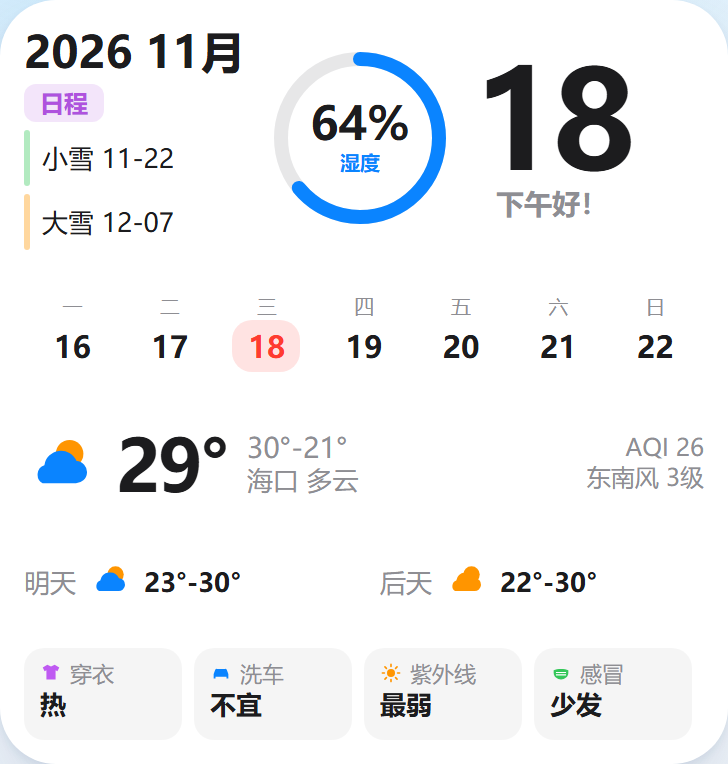
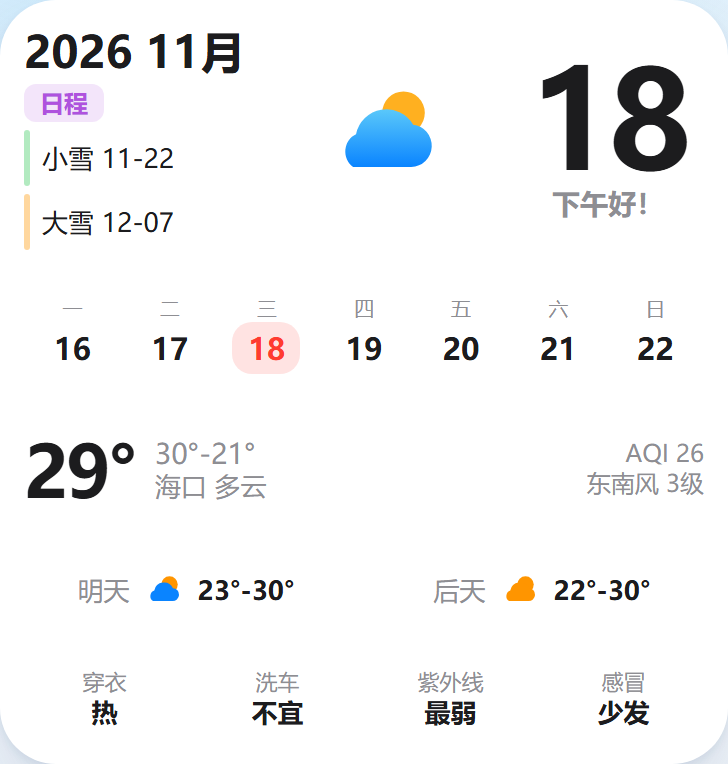
Use large weather symbol and center forecast rows

diff --git a/preview/预览.html b/preview/预览.html
@@ -114,6 +114,13 @@
   .darkw .l-bar.orange { background: rgba(255,159,10,.38); }
   .l-schedule span { font-size: 13px; color: var(--text); white-space: nowrap; }
   .l-gauge { width: 88px; height: 88px; flex: none; display: flex; align-items: center; justify-content: center; }
+  .l-hero { flex: 1 1 auto; display: flex; align-items: center; justify-content: center; }
+  .l-hero .disc {
+    width: 88px; height: 88px; border-radius: 50%; display: flex; align-items: center; justify-content: center;
+    background: transparent;
+  }
+  .darkw .l-hero .disc { background: transparent; }
+  .l-hero svg { width: 62px; height: 62px; }
   .l-right { width: 96px; flex: none; display: flex; flex-direction: column; align-items: center; }
   .l-day { font-size: 68px; font-weight: 700; line-height: .92; letter-spacing: -.045em; }
   .l-greet { font-size: 14px; font-weight: 600; color: var(--sub); white-space: nowrap; margin-top: 2px; }
@@ -138,20 +145,17 @@
   .l-rightinfo span { font-size: 12px; color: var(--sub); line-height: 1.15; white-space: nowrap; }
 
   .l-next { display: flex; gap: 16px; align-items: center; height: 26px; flex: none; }
-  .l-nextcard { width: 162px; display: flex; align-items: center; gap: 6px; }
+  .l-nextcard { width: 162px; display: flex; align-items: center; justify-content: center; gap: 6px; }
   .l-nextcard .lab { font-size: 13px; color: var(--sub); white-space: nowrap; }
   .l-nextcard .val { font-size: 13px; font-weight: 600; color: var(--text); white-space: nowrap; }
   .l-nextcard svg { width: 22px; height: 22px; flex: none; }
 
   .l-spacer { flex: 1 1 auto; min-height: 0; }
-  .l-life { display: flex; gap: 6px; flex: none; height: 46px; }
+  .l-life { display: flex; gap: 6px; flex: none; height: 40px; }
   .l-lifeitem {
-    width: 79px; padding: 7px 8px; border-radius: 10px; background: var(--chip);
-    display: flex; flex-direction: column; gap: 2px;
+    flex: 1; display: flex; flex-direction: column; align-items: center; justify-content: center; gap: 2px;
   }
-  .l-lifeitem .row { display: flex; align-items: center; gap: 4px; }
-  .l-lifeitem .row svg { width: 11px; height: 11px; flex: none; }
-  .l-lifeitem .lab { font-size: 11px; color: var(--sub); line-height: 1.1; }
+  .l-lifeitem .lab { font-size: 11px; color: var(--sub); line-height: 1.1; text-align: center; }
   .l-lifeitem .val { font-size: 13px; font-weight: 600; color: var(--text); line-height: 1.15; white-space: nowrap; }
 
   .note { margin: 18px 4px 0; color: #94a3b8; font-size: 11px; }
@@ -177,7 +181,11 @@
           <div class="l-schedule"><div class="l-bar green"></div><span>小雪 11-22</span></div>
           <div class="l-schedule"><div class="l-bar orange"></div><span>大雪 12-07</span></div>
         </div>
-        <div class="l-gauge" id="gauge-dark"></div>
+        <div class="l-hero"><div class="disc"><svg viewBox="0 0 64 64" aria-hidden="true">
+          <defs><linearGradient id="cg1" x1="0" y1="0" x2="0" y2="1"><stop offset="0" stop-color="#5AC8FA"/><stop offset="1" stop-color="#0A84FF"/></linearGradient></defs>
+          <circle cx="40" cy="19" r="11" fill="#FFB020"/>
+          <path d="M14 47h30a11 11 0 0 0 1-21.9A16 16 0 0 0 15.5 30 10 10 0 0 0 14 47z" fill="url(#cg1)"/>
+        </svg></div></div>
         <div class="l-right">
           <div class="l-day">18</div>
           <div class="l-greet">下午好！</div>
@@ -191,10 +199,6 @@
       <div class="l-spacer"></div>
 
       <div class="l-weather">
-        <svg class="l-icon" viewBox="0 0 24 24" aria-hidden="true">
-          <circle cx="15.2" cy="8.6" r="4.6" fill="#FF9500"/>
-          <path d="M6.2 18.4h10.9a3.7 3.7 0 0 0 .4-7.4 5.6 5.6 0 0 0-10.7 1.4 3.3 3.3 0 0 0-.6 6z" fill="#0A84FF"/>
-        </svg>
         <div class="l-temp">29°</div>
         <div class="l-cond">
           <div class="l-hl">30°-21°</div>
@@ -224,10 +228,10 @@
       <div class="l-spacer"></div>
 
       <div class="l-life">
-        <div class="l-lifeitem"><div class="row"><svg viewBox="0 0 24 24"><path d="M8 3l4 2 4-2 5 3-2 4-2-1v10H7V9L5 10 3 6z" fill="#BF5AF2"/></svg><span class="lab">穿衣</span></div><span class="val">热</span></div>
-        <div class="l-lifeitem"><div class="row"><svg viewBox="0 0 24 24"><path d="M4 13l1.6-4.2A2 2 0 0 1 7.5 7.5h9a2 2 0 0 1 1.9 1.3L20 13v5h-2v-2H6v2H4z" fill="#0A84FF"/></svg><span class="lab">洗车</span></div><span class="val">不宜</span></div>
-        <div class="l-lifeitem"><div class="row"><svg viewBox="0 0 24 24"><circle cx="12" cy="12" r="4.4" fill="#FF9500"/><g stroke="#FF9500" stroke-width="1.8" stroke-linecap="round"><path d="M12 2.6v2.2M12 19.2v2.2M2.6 12h2.2M19.2 12h2.2M5.4 5.4l1.6 1.6M17 17l1.6 1.6M18.6 5.4L17 7M7 17l-1.6 1.6"/></g></svg><span class="lab">紫外线</span></div><span class="val">最弱</span></div>
-        <div class="l-lifeitem"><div class="row"><svg viewBox="0 0 24 24"><path d="M4 9c4-2 12-2 16 0v3c0 4-4 7-8 7s-8-3-8-7z" fill="#34C759"/><path d="M6.5 11.5h11M6.5 14h11" stroke="#fff" stroke-width="1.2"/></svg><span class="lab">感冒</span></div><span class="val">少发</span></div>
+        <div class="l-lifeitem"><span class="lab">穿衣</span><span class="val">热</span></div>
+        <div class="l-lifeitem"><span class="lab">洗车</span><span class="val">不宜</span></div>
+        <div class="l-lifeitem"><span class="lab">紫外线</span><span class="val">最弱</span></div>
+        <div class="l-lifeitem"><span class="lab">感冒</span><span class="val">少发</span></div>
       </div>
     </div>
     <p class="note">HTML 近似渲染，用于确认信息层级和密度；真机由 SwiftUI / SF Symbols 绘制，细节会略有差异。</p>
@@ -243,7 +247,11 @@
           <div class="l-schedule"><div class="l-bar green"></div><span>小雪 11-22</span></div>
           <div class="l-schedule"><div class="l-bar orange"></div><span>大雪 12-07</span></div>
         </div>
-        <div class="l-gauge" id="gauge-light"></div>
+        <div class="l-hero"><div class="disc"><svg viewBox="0 0 64 64" aria-hidden="true">
+          <defs><linearGradient id="cg2" x1="0" y1="0" x2="0" y2="1"><stop offset="0" stop-color="#5AC8FA"/><stop offset="1" stop-color="#0A84FF"/></linearGradient></defs>
+          <circle cx="40" cy="19" r="11" fill="#FFB020"/>
+          <path d="M14 47h30a11 11 0 0 0 1-21.9A16 16 0 0 0 15.5 30 10 10 0 0 0 14 47z" fill="url(#cg2)"/>
+        </svg></div></div>
         <div class="l-right">
           <div class="l-day">18</div>
           <div class="l-greet">下午好！</div>
@@ -257,10 +265,6 @@
       <div class="l-spacer"></div>
 
       <div class="l-weather">
-        <svg class="l-icon" viewBox="0 0 24 24" aria-hidden="true">
-          <circle cx="15.2" cy="8.6" r="4.6" fill="#FF9500"/>
-          <path d="M6.2 18.4h10.9a3.7 3.7 0 0 0 .4-7.4 5.6 5.6 0 0 0-10.7 1.4 3.3 3.3 0 0 0-.6 6z" fill="#0A84FF"/>
-        </svg>
         <div class="l-temp">29°</div>
         <div class="l-cond">
           <div class="l-hl">30°-21°</div>
@@ -290,10 +294,10 @@
       <div class="l-spacer"></div>
 
       <div class="l-life">
-        <div class="l-lifeitem"><div class="row"><svg viewBox="0 0 24 24"><path d="M8 3l4 2 4-2 5 3-2 4-2-1v10H7V9L5 10 3 6z" fill="#BF5AF2"/></svg><span class="lab">穿衣</span></div><span class="val">热</span></div>
-        <div class="l-lifeitem"><div class="row"><svg viewBox="0 0 24 24"><path d="M4 13l1.6-4.2A2 2 0 0 1 7.5 7.5h9a2 2 0 0 1 1.9 1.3L20 13v5h-2v-2H6v2H4z" fill="#0A84FF"/></svg><span class="lab">洗车</span></div><span class="val">不宜</span></div>
-        <div class="l-lifeitem"><div class="row"><svg viewBox="0 0 24 24"><circle cx="12" cy="12" r="4.4" fill="#FF9500"/><g stroke="#FF9500" stroke-width="1.8" stroke-linecap="round"><path d="M12 2.6v2.2M12 19.2v2.2M2.6 12h2.2M19.2 12h2.2M5.4 5.4l1.6 1.6M17 17l1.6 1.6M18.6 5.4L17 7M7 17l-1.6 1.6"/></g></svg><span class="lab">紫外线</span></div><span class="val">最弱</span></div>
-        <div class="l-lifeitem"><div class="row"><svg viewBox="0 0 24 24"><path d="M4 9c4-2 12-2 16 0v3c0 4-4 7-8 7s-8-3-8-7z" fill="#34C759"/><path d="M6.5 11.5h11M6.5 14h11" stroke="#fff" stroke-width="1.2"/></svg><span class="lab">感冒</span></div><span class="val">少发</span></div>
+        <div class="l-lifeitem"><span class="lab">穿衣</span><span class="val">热</span></div>
+        <div class="l-lifeitem"><span class="lab">洗车</span><span class="val">不宜</span></div>
+        <div class="l-lifeitem"><span class="lab">紫外线</span><span class="val">最弱</span></div>
+        <div class="l-lifeitem"><span class="lab">感冒</span><span class="val">少发</span></div>
       </div>
     </div>
     <p class="note">HTML 近似渲染，用于确认信息层级和密度；真机由 SwiftUI / SF Symbols 绘制，细节会略有差异。</p>
@@ -325,8 +329,6 @@
     ).join("")
   }
 
-  renderGauge("gauge-dark", 64)
-  renderGauge("gauge-light", 64)
   renderWeek("week-dark")
   renderWeek("week-light")
 </script>

diff --git a/widget.tsx b/widget.tsx
@@ -1,5 +1,4 @@
 import {
-  Canvas,
   HStack,
   Image,
   Rectangle,
@@ -548,57 +547,6 @@ function getNextTwoHolidays(): Array<{ name: string; md: string }> {
   return result
 }
 
-function humidityPercent(value: string): number {
-  const number = parseFloat(String(value).replace("%", ""))
-  if (!Number.isFinite(number)) return 0
-  return Math.max(0, Math.min(100, number))
-}
-
-function HumidityGauge({ size, humidity }: { size: number; humidity: string }) {
-  const percent = humidityPercent(humidity)
-  const lineWidth = 7
-
-  return (
-    <ZStack alignment="center" frame={{ width: size, height: size }}>
-      <Canvas
-        frame={{ width: size, height: size }}
-        opaque={false}
-        draw={(ctx: any, canvasSize: { width: number; height: number }) => {
-          const cx = canvasSize.width / 2
-          const cy = canvasSize.height / 2
-          const radius = Math.min(cx, cy) - lineWidth / 2 - 1
-
-          ctx.lineWidth = lineWidth
-          ctx.lineCap = "round"
-          ctx.strokeStyle = "rgba(120,120,128,0.18)"
-          ctx.beginPath()
-          ctx.arc(cx, cy, radius, 0, Math.PI * 2)
-          ctx.stroke()
-
-          if (percent > 1) {
-            const gradient = ctx.createConicGradient(-Math.PI / 2, cx, cy)
-            gradient.addColorStop(0, "#5AC8FA")
-            gradient.addColorStop(0.55, "#0A84FF")
-            gradient.addColorStop(1, "#5E5CE6")
-            ctx.strokeStyle = gradient
-            ctx.beginPath()
-            ctx.arc(cx, cy, radius, -Math.PI / 2, -Math.PI / 2 + (Math.PI * 2 * percent) / 100)
-            ctx.stroke()
-          }
-        }}
-      />
-      <VStack alignment="center" spacing={0}>
-        <Text font={23} fontWeight="bold" foregroundStyle={C.text} lineLimit={1}>
-          {`${Math.round(percent)}%`}
-        </Text>
-        <Text font={10} fontWeight="semibold" foregroundStyle={C.blue} lineLimit={1}>
-          湿度
-        </Text>
-      </VStack>
-    </ZStack>
-  )
-}
-
 /* ------------------------------------------------------------------
  * 小尺寸
  * ------------------------------------------------------------------ */
@@ -854,6 +802,7 @@ function NextDayCard({
 
   return (
     <HStack alignment="center" spacing={6} frame={{ width }}>
+      <Spacer />
       <Text font={13} foregroundStyle={C.sub} lineLimit={1}>
         {label}
       </Text>
@@ -873,42 +822,16 @@ function NextDayCard({
 }
 
 function LifeChip({ item, width }: { item: LifeInfo; width: number }) {
-  const icon = lifeIcon(item.label)
   return (
-    <VStack
-      alignment="leading"
-      spacing={2}
-      padding={{ horizontal: 8, vertical: 8 }}
-      frame={{ width }}
-      background={<RoundedRectangle cornerRadius={10} fill={C.chip} />}
-    >
-      <HStack spacing={4}>
-        <Image
-          systemName={icon.symbol}
-          resizable
-          scaleToFit
-          frame={{ width: 11, height: 11 }}
-          foregroundStyle={icon.color}
-        />
-        <Text font={11} foregroundStyle={C.sub} lineLimit={1}>
-          {item.label}
-        </Text>
-      </HStack>
+    <VStack alignment="center" spacing={2} frame={{ width }}>
+      <Text font={11} foregroundStyle={C.sub} lineLimit={1}>
+        {item.label}
+      </Text>
       <Text font={13} fontWeight="semibold" foregroundStyle={C.text} lineLimit={1}>
         {item.hint}
       </Text>
     </VStack>
   )
-}
-
-function lifeIcon(label: string): { symbol: string; color: string } {
-  if (label === "穿衣") return { symbol: "tshirt.fill", color: C.violet }
-  if (label === "洗车") return { symbol: "car.fill", color: C.blue }
-  if (label === "紫外线") return { symbol: "sun.max.fill", color: C.amber }
-  if (label === "感冒") return { symbol: "facemask.fill", color: C.green }
-  if (label === "雨伞") return { symbol: "umbrella.fill", color: C.blue }
-  if (label === "运动") return { symbol: "figure.run", color: C.green }
-  return { symbol: "sparkles", color: C.blue }
 }
 
 function LargeWidget({ model, name }: { model: WeatherModel; name: string }) {
@@ -977,7 +900,14 @@ function LargeWidget({ model, name }: { model: WeatherModel; name: string }) {
         </VStack>
 
         <Spacer />
-        <HumidityGauge size={88} humidity={model.humidity} />
+        <Image
+          systemName={icon.symbol}
+          resizable
+          scaleToFit
+          symbolRenderingMode="multicolor"
+          frame={{ width: 62, height: 62 }}
+          foregroundStyle={icon.color}
+        />
         <Spacer />
 
         <VStack alignment="center" spacing={0} frame={{ width: 96 }}>
@@ -1002,13 +932,6 @@ function LargeWidget({ model, name }: { model: WeatherModel; name: string }) {
       <Spacer />
 
       <HStack alignment="center" spacing={10}>
-        <Image
-          systemName={icon.symbol}
-          resizable
-          scaleToFit
-          frame={{ width: 36, height: 36 }}
-          foregroundStyle={icon.color}
-        />
         <Text font={36} fontWeight="bold" foregroundStyle={C.text} lineLimit={1}>
           {formatTemp(model.temp)}°
         </Text>

diff --git a/README.md b/README.md
@@ -4,7 +4,7 @@
 
 支持小号、中号、大号，以及锁屏圆形 / 矩形 / 行内组件；深色和浅色模式都做了适配。
 
-大号按原始 Egern 模块的结构重做：左侧是年月、日程和最近两个节气/节日，中间是湿度环形仪表，右侧是大号日期和问候语；下方依次是本周日期、今日天气、明天/后天和生活指数。整体间距按组件高度均匀分布，不会在底部留出大片空白。
+大号按原始 Egern 模块的结构重做：左侧是年月、日程和最近两个节气/节日，中间是大号天气图标，右侧是大号日期和问候语；下方依次是本周日期、今日天气、明天/后天和生活指数。整体间距按组件高度均匀分布，不会在底部留出大片空白。
 
 ![整体预览](preview/效果图.png)
 
@@ -24,7 +24,7 @@
 
 > 如果不想用 `.scripting`，也可以直接下载仓库 ZIP，把 `script.json`、`index.tsx`、`widget.tsx` 放进 Scripting 项目。
 
-大号的湿度环由 Scripting 的 `Canvas` 绘制（圆弧使用锥形渐变），需要 **Scripting 3.1 或更新版本**；旧版本会无法识别 `Canvas` 组件。
+大号的天气图标使用 SF Symbols 的多色渲染（`symbolRenderingMode="multicolor"`），需要 iOS 15 或更新版本；其余部分只用到常规的 SwiftUI 组件。
 
 ## 远程导入 / 更新
 
@@ -129,8 +129,8 @@ preview/                  预览图片和 HTML
 
 - 已通过 TSX 语法编译和 TypeScript 类型自检。
 - 已用真实接口验证海口、慈溪的实况、7 天预报、生活指数解析。
-- 大号已按原始 Egern 布局重新生成预览图，时钟换成湿度环并重新分配了行间距；预览是 HTML 近似渲染。
-- 尚未在真实 iPhone 的 Scripting 宿主里验证最终字体、SF Symbols、湿度环渐变和间距；安装后如果排版有偏差，可以按真机截图继续调。
+- 大号已按原始 Egern 布局重新生成预览图：中间换成大号天气图标，明天/后天与生活指数居中，生活指数去掉了底色和图标；预览是 HTML 近似渲染。
+- 尚未在真实 iPhone 的 Scripting 宿主里验证最终字体、多色 SF Symbols 和间距；安装后如果排版有偏差，可以按真机截图继续调。
 
 ## 致谢
 
